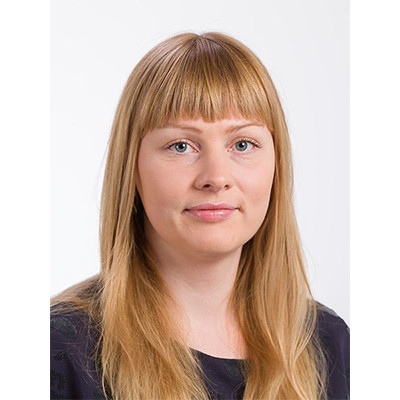
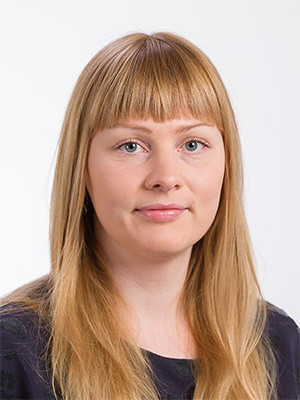
Pildid muudetud ja mantorite css ka.

diff --git a/assets/scss/_dash.scss b/assets/scss/_dash.scss
@@ -147,8 +147,12 @@ color:white;
   display:none;
   height:0;
 }
+.mentor_image{
+  text-align:center;
+}
 .mentor_image img{
-  width:100%;
+  max-height:250px;
+
 }
 
 .mentor_name{
